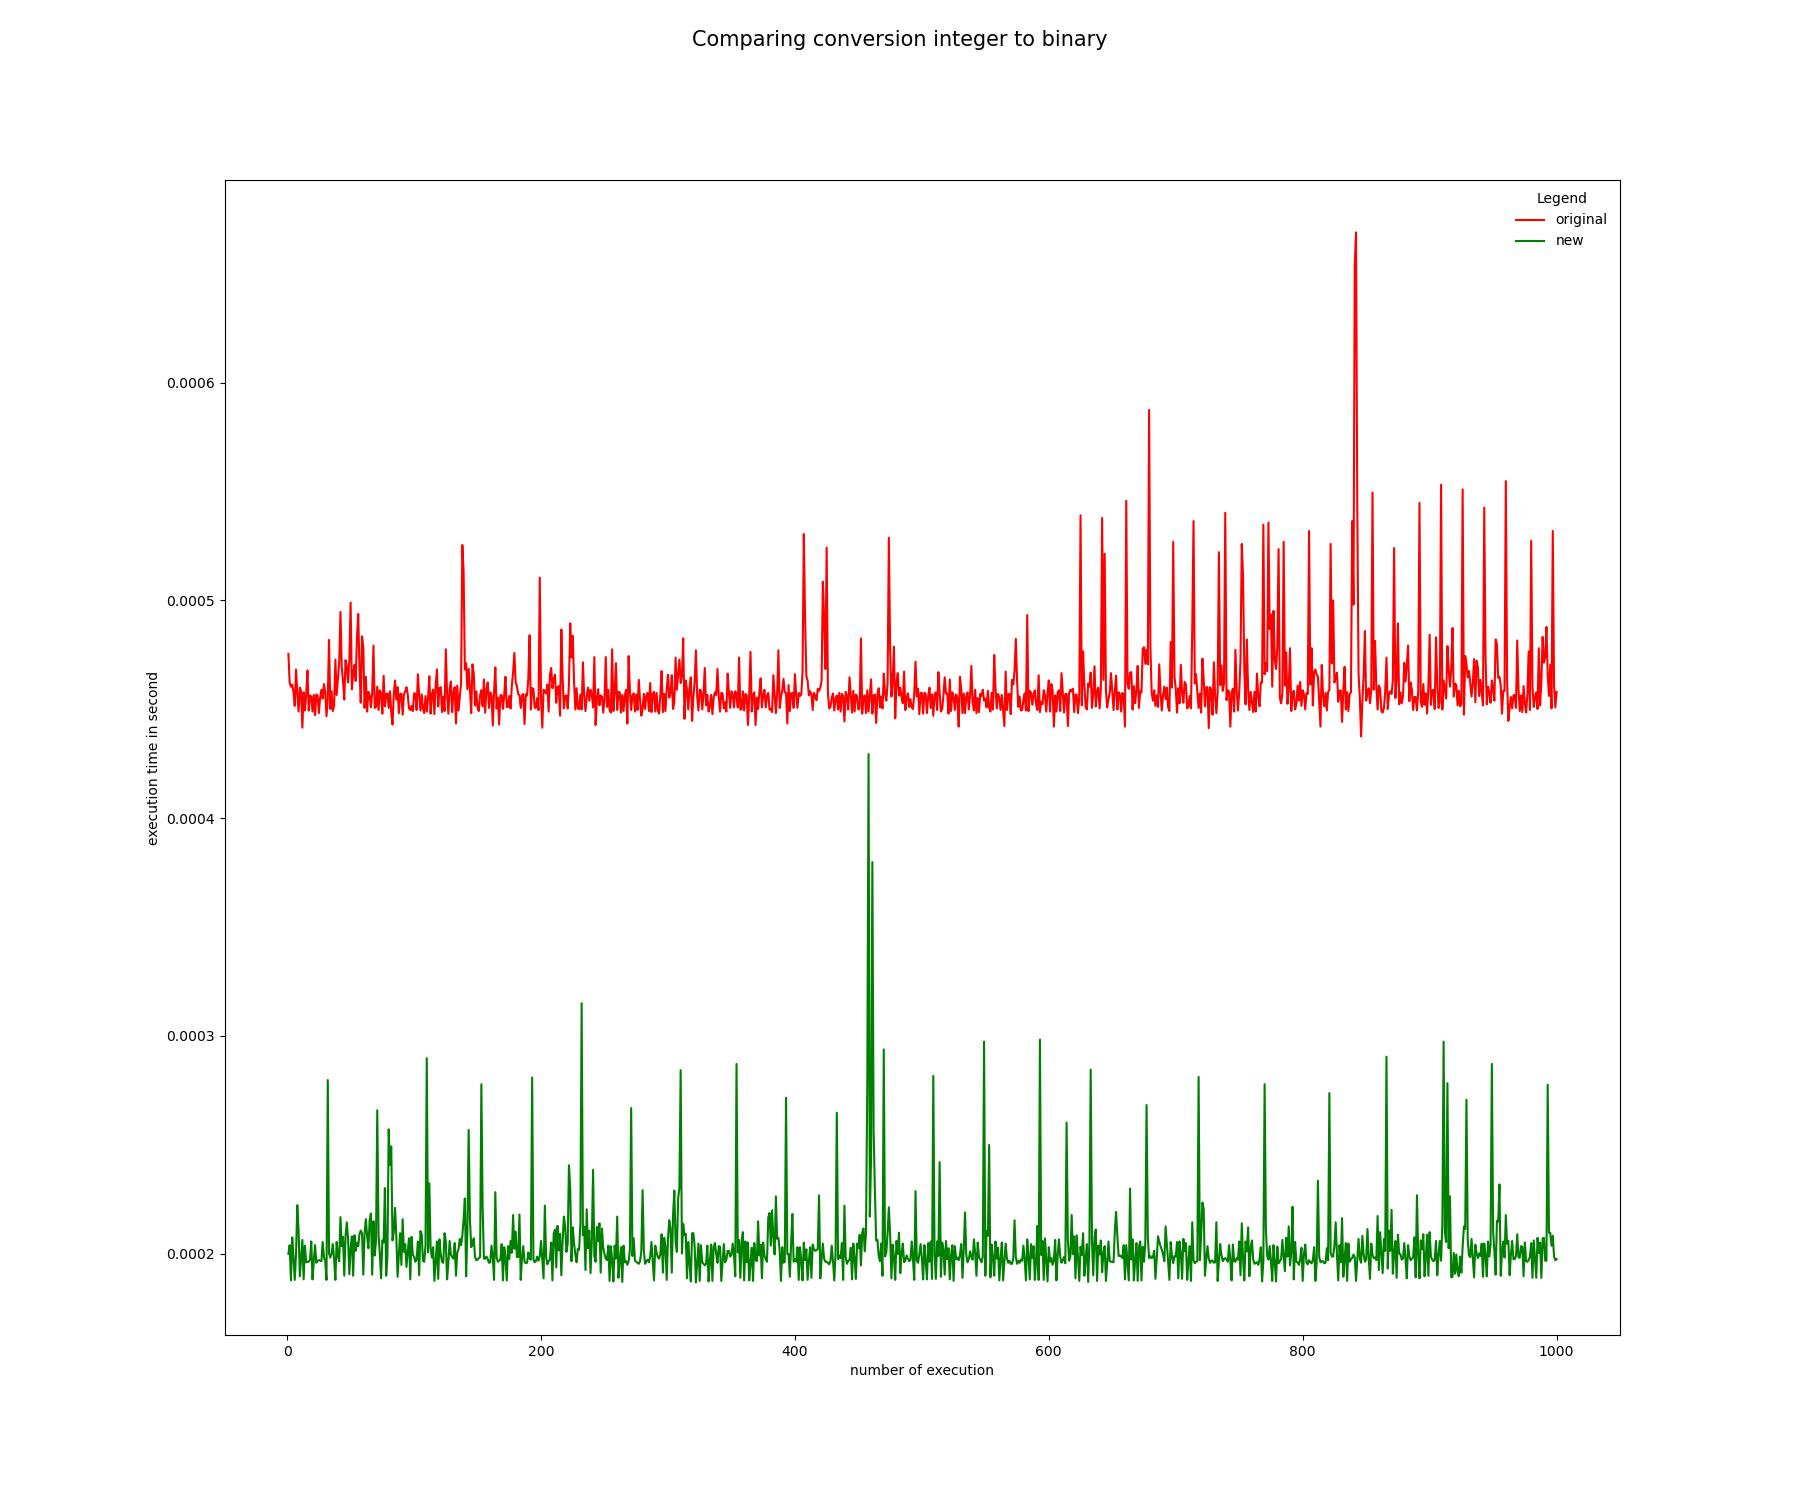
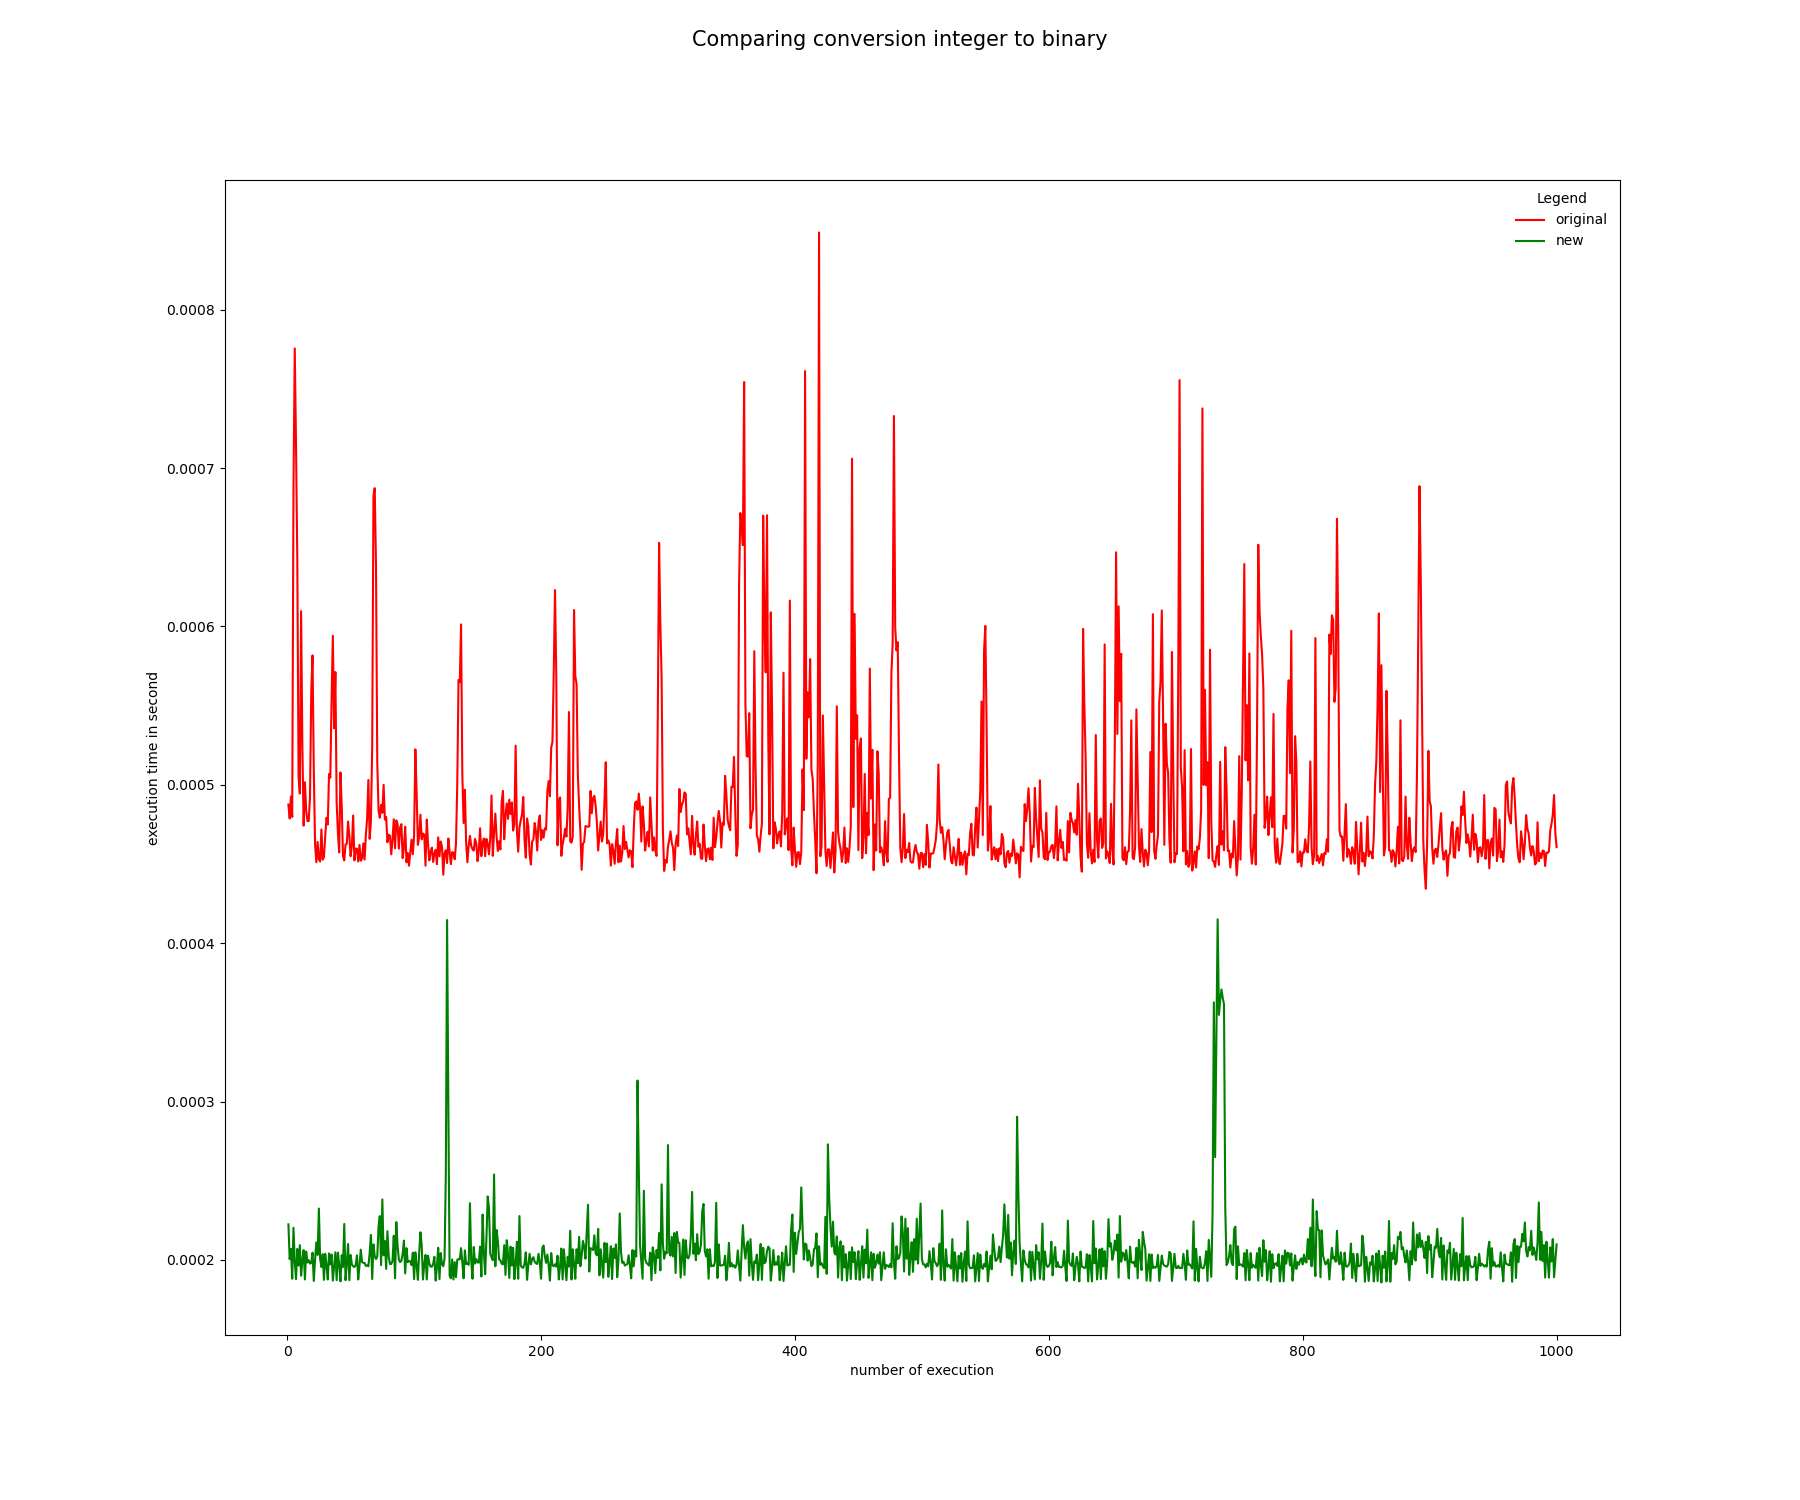
starting notebook

diff --git a/test.py b/test.py
@@ -8,8 +8,8 @@ from benchmark.graph import *
 
 
 def simulation():
-    #time = get_time(50, 2048)
-    #make_simple_plot(time, "generate() with new binary algorithm", "generate()", "red")
+    time = get_time(50, 2048)
+    make_simple_plot(time, "generate() with new binary algorithm", "generate()", "red")
 
     time1, time2 = get_time_converting(1000)
     make_n_plot("plot", (time1, time2), "Comparing conversion integer to binary", ("original", "new"), ("red", "green"))

diff --git a/benchmark/graph.py b/benchmark/graph.py
@@ -12,6 +12,9 @@ def make_simple_plot(array, title, label, color):
     fig.suptitle(title, fontsize=15)
     plt.plot(np.linspace(1, len(array), len(array)), array, color=color, label=label)
 
+    plt.xlabel('number of execution')
+    plt.ylabel('execution time in second')
+
     plt.legend(loc="upper right", title="Legend", frameon=False)
     plt.savefig(path+title+".png")
 

diff --git a/README.md b/README.md
@@ -110,6 +110,9 @@ Refactoring...
 - OAEP: encryption, decryption and signature methods
 - file format PEM
 
+### Binary_improvement
+This branch replace every "normal" operators (like addition, substraction etc) with binary operations (shift, AND, OR etc)
+
 
 ## Version
 
@@ -118,6 +121,7 @@ Refactoring...
 | v1.0             | first stable version of pubcrypt. Can generate, encrypt, decrypt and recover prime factors        |
 | v1.1             | command line version added        |
 | v1.2             | miller-rabin improvement that allow to generate key pairs faster      |
+| v1.3             | binary improvement: replace all operators with binary operators      |
 
 
 ## Author
